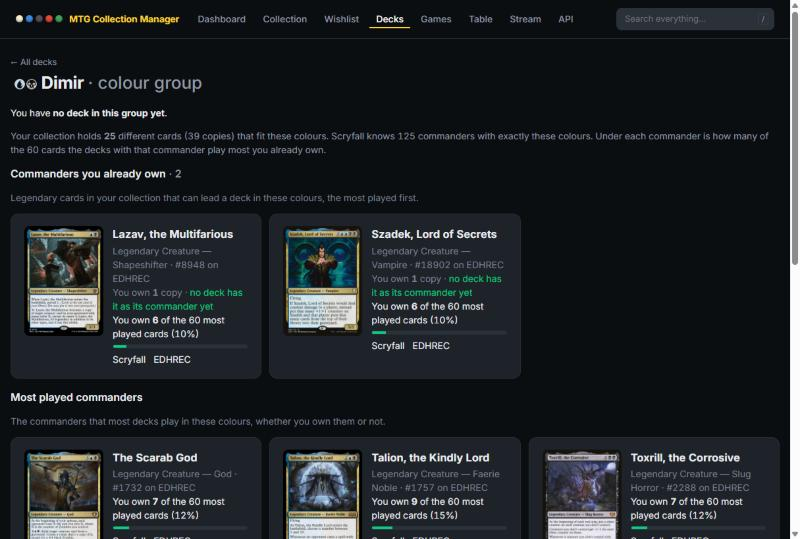
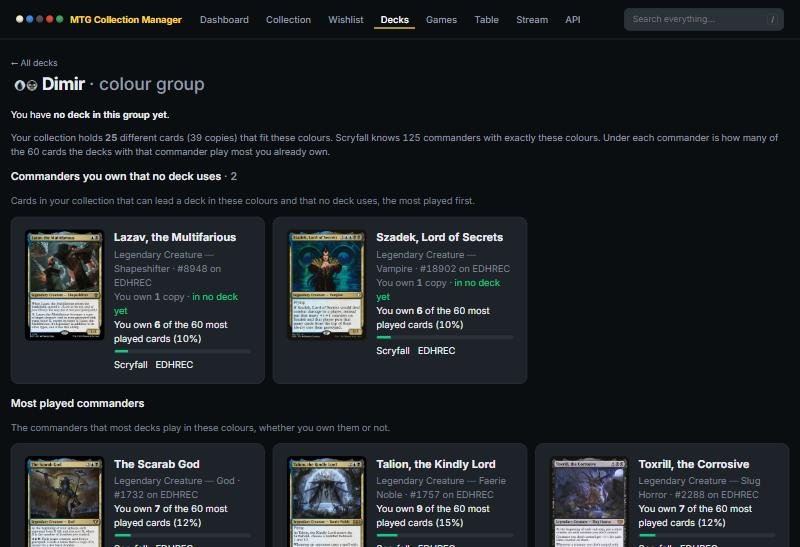
Colour groups: only the commanders you own that no deck uses
- The list of commanders you own on a colour group page leaves out the ones whose copies all sit in decks; with two copies and one in a deck it stays, with "1 not in a deck"
- New screenshot of the page; tests and README

diff --git a/app/templates/colour_group.html b/app/templates/colour_group.html
@@ -10,8 +10,7 @@
     <h3>{{ c.name }}</h3>
     <div class="muted small">{{ c.type_line }}{% if c.rank %} · #{{ c.rank }} on EDHREC{% endif %}</div>
     {% if owned_list %}
-    <div class="small">You own <b>{{ c.copies }}</b> cop{{ 'y' if c.copies == 1 else 'ies' }} ·
-      {% if c.deck %}it is the commander of <a href="/decks/{{ c.deck.id }}">{{ c.deck.name }}</a>{% else %}<span class="up">no deck has it as its commander yet</span>{% endif %}</div>
+    <div class="small">You own <b>{{ c.copies }}</b> cop{{ 'y' if c.copies == 1 else 'ies' }}{% if c.copies > 1 %} · <span class="up">{{ c.free }} not in a deck</span>{% else %} · <span class="up">in no deck yet</span>{% endif %}</div>
     {% elif c.owned %}
     <div class="small"><span class="badge hit">✓ in your collection</span></div>
     {% endif %}
@@ -39,13 +38,13 @@
 
 {% if error %}<p class="down">Could not get the commanders from Scryfall: {{ error }}</p>{% endif %}
 
-<h2>Commanders you already own <span class="muted">· {{ owned | length + owned_more }}</span></h2>
+<h2>Commanders you own that no deck uses <span class="muted">· {{ owned | length + owned_more }}</span></h2>
 {% if owned %}
-<p class="muted small">Legendary cards in your collection that can lead a deck in these colours, the most played first.</p>
+<p class="muted small">Cards in your collection that can lead a deck in these colours and that no deck uses, the most played first.</p>
 <div class="commander-grid">{% for c in owned %}{{ commander_card(c, True) }}{% endfor %}</div>
 {% if owned_more %}<p class="muted small">… and {{ owned_more }} more, less played ones.</p>{% endif %}
 {% elif not error %}
-<p class="muted">You own no card that can be a commander in exactly these colours.</p>
+<p class="muted">You own no free card that can be a commander in exactly these colours (the ones you own are in a deck already).</p>
 {% endif %}
 
 <h2>Most played commanders</h2>

diff --git a/tests/test_colour_groups.py b/tests/test_colour_groups.py
@@ -51,7 +51,7 @@ def test_the_collection_that_fits_a_colour_group(client, session):
     assert colour_groups.slug("UB") == "ub" and colour_groups.slug("") == "c"
 
 
-def test_a_colour_group_page_lists_the_most_played_commanders_and_the_ones_you_own(client, monkeypatch):
+def test_a_colour_group_page_lists_the_most_played_commanders_and_the_free_ones_you_own(client, monkeypatch):
     from app.scryfall import ScryfallClient
     from app.services import colour_groups
 
@@ -65,32 +65,37 @@ def test_a_colour_group_page_lists_the_most_played_commanders_and_the_ones_you_o
                 {"name": "Marwyn, the Nurturer", "type_line": "Legendary Creature — Elf Druid", "edhrec_rank": 1234,
                  "scryfall_uri": "https://scryfall.com/card/x", "image_uris": {"normal": "https://cards.scryfall.io/normal/front/m.jpg"}},
                 {"name": "Marwyn, the Nurturer", "type_line": "again"},
+                {"name": "Sol Ring", "type_line": "Artifact", "edhrec_rank": 5000},
+                {"name": "Lim-Dûl's Vault", "type_line": "Instant", "edhrec_rank": 6000},
                 {"name": "Ghalta", "card_faces": [{"image_uris": {"normal": "https://cards.scryfall.io/normal/front/g.jpg"}}]}]
 
     monkeypatch.setattr(ScryfallClient, "search", search)
-    client.post("/api/collection", json={"name": "Lim-Dûl's Vault"})
-    client.post("/api/collection", json={"name": "Sol Ring", "set_code": "cmm"})
-    client.post("/api/collection", json={"name": "Marwyn, the Nurturer", "quantity": 2})
+    client.post("/api/collection", json={"name": "Lim-Dûl's Vault"})  # free: no deck uses it
+    client.post("/api/collection", json={"name": "Sol Ring", "set_code": "cmm"})  # its only copy sits in a deck
+    client.post("/api/collection", json={"name": "Marwyn, the Nurturer", "quantity": 2})  # one copy sits in a deck
     client.post("/api/decks", json={"name": "Marwyn, the Nurturer - Elves", "decklist": "1 Marwyn, the Nurturer"})
-    client.get("/api/decks")  # works out its commander
+    client.post("/api/decks", json={"name": "Artifacts", "decklist": "1 Sol Ring"})
+    client.get("/api/decks")
     page = client.get("/deck/colours/g")
     assert page.status_code == 200
     assert asked == [("is:commander legal:commander id=g", {"order": "edhrec", "unique": "cards"})]
     text = page.text
-    owned, popular = text.split("Commanders you already own")[1].split("Most played commanders")
-    # what you own: Marwyn (two copies, the commander of the deck Elves), not Ezuri or Ghalta
-    assert "Marwyn, the Nurturer" in owned and "Ezuri" not in owned and "Ghalta" not in owned
-    assert "You own <b>2</b> copies" in owned and "it is the commander of" in owned and "Marwyn, the Nurturer - Elves" in owned
-    # the most played, in EDHREC's order and without duplicates, with a mark on the one you own
-    assert popular.count('class="panel commander-card"') == 3 and popular.index("Ezuri") < popular.index("Marwyn")
+    owned, popular = text.split("Commanders you own that no deck uses")[1].split("Most played commanders")
+    # free to use: the Vault, and Marwyn of which one of two copies is free; Sol Ring is in a deck, Ezuri and Ghalta are not owned
+    assert "Marwyn, the Nurturer" in owned and "Lim-Dûl&#39;s Vault" in owned and "Sol Ring" not in owned
+    assert "Ezuri" not in owned and "Ghalta" not in owned
+    assert "You own <b>2</b> copies" in owned and "1 not in a deck" in owned and "in no deck yet" in owned
+    assert owned.index("Marwyn") < owned.index("Lim-D")  # the most played first
+    # the most played, in EDHREC's order and without duplicates, with a mark on those you own and can use
+    assert popular.count('class="panel commander-card"') == 5 and popular.index("Ezuri") < popular.index("Marwyn")
     assert "#1234 on EDHREC" in popular and "https://cards.scryfall.io/normal/front/g.jpg" in popular
-    assert popular.count("✓ in your collection") == 1
+    assert popular.count("✓ in your collection") == 2
     assert client.get("/deck/colours/g").status_code == 200 and len(asked) == 1  # one search a day per group
     assert client.get("/deck/colours/c").status_code == 200 and asked[-1][0].endswith("id=c")
     assert client.get("/deck/colours/xyz").status_code == 404
 
     found = client.get("/api/commanders/coverage", params={"name": "Marwyn, the Nurturer"}).json()
-    assert (found["owned"], found["of"], found["percent"], found["decks"]) == (2, 3, 67, 1000)
+    assert (found["decks"], found["of"]) == (1000, 3) and found["owned"] >= 1
     assert found["url"] == "https://edhrec.com/commanders/marwyn-the-nurturer"
     assert client.get("/api/commanders/coverage", params={"name": "Nobody"}).status_code == 502
 
@@ -106,7 +111,7 @@ def test_no_owned_commander_is_said_so(client, monkeypatch):
 
     monkeypatch.setattr(ScryfallClient, "search", search)
     text = client.get("/deck/colours/g").text
-    assert "You own no card that can be a commander in exactly these colours" in text and "Ezuri, Renegade Leader" in text
+    assert "You own no free card that can be a commander in exactly these colours" in text and "Ezuri, Renegade Leader" in text
     assert "no deck in this group yet" in text
 
 

diff --git a/app/services/colour_groups.py b/app/services/colour_groups.py
@@ -113,28 +113,20 @@ async def all_commanders(scryfall, colors: str) -> list[dict]:
     return found
 
 
-def owned_commanders(session: Session, commanders: list[dict], decks: list) -> list[dict]:
-    """The commanders of this group that you already have a copy of, the most played first, each with the
-    number of copies and the deck (if any) that has it as its commander."""
-    from app.scryfall import name_key
-    from app.services.collection import collection_rows
+def owned_commanders(session: Session, commanders: list[dict]) -> list[dict]:
+    """The commanders of this group that you have a copy of that no deck uses, the most played first, each
+    with the number of copies and how many of them are free. A commander whose copies all sit in decks is left out."""
     from app.services.decks import _names
+    from app.services.edhrec_compare import _collection_by_name
 
-    copies: dict[str, int] = {}
-    for row in collection_rows(session):
-        key = name_key(row.card.name)
-        copies[key] = copies.get(key, 0) + row.entry.quantity
-    led = {}
-    for deck in decks:
-        for key in _names(deck.commander or ""):
-            led.setdefault(key, deck)
+    have = _collection_by_name(session)  # per name key: [copies owned, copies free, a printing, its price]
     found = []
     for commander in commanders:
-        keys = _names(commander["name"])
-        have = max((copies.get(key, 0) for key in keys), default=0)
-        if have:
-            deck = next((led[key] for key in keys if key in led), None)
-            found.append({**commander, "copies": have, "deck": {"id": deck.id, "name": deck.name} if deck else None})
+        owned = [have[key] for key in _names(commander["name"]) if key in have]
+        copies = max((item[0] for item in owned), default=0)
+        free = max((item[1] for item in owned), default=0)
+        if free > 0:
+            found.append({**commander, "copies": copies, "free": free})
     return found
 
 

diff --git a/app/routers/pages.py b/app/routers/pages.py
@@ -608,13 +608,12 @@ async def colour_group_page(request: Request, slug: str, session: Session = Depe
     key = colour_groups.group_key(slug)
     if key is None:
         raise HTTPException(status_code=404, detail="Unknown colour group")
-    every = [s.deck for s in decks.deck_summaries(session)]
-    mine = [deck for deck in every if colour_groups.normalise(deck.colors) == key]
+    mine = [s.deck for s in decks.deck_summaries(session) if colour_groups.normalise(s.deck.colors) == key]
     try:
         everything, error = await colour_groups.all_commanders(scryfall, key), None
     except ScryfallError as exc:
         everything, error = [], str(exc)
-    owned = colour_groups.owned_commanders(session, everything, every)
+    owned = colour_groups.owned_commanders(session, everything)
     have = {c["name"] for c in owned}
     popular = [{**c, "owned": c["name"] in have} for c in everything[:12]]
     return render(request, "colour_group.html", key=key, name=colour_groups.NAMES[key], decks=mine, commanders=popular,

diff --git a/README.md b/README.md
@@ -98,7 +98,7 @@ Press **▶ Play** on a deck and the stream screen opens with every token that d
 
 ![Colour groups: every deck shows the name of its colours (Azorius, Grixis, Selesnya...), and the groups you have no deck in yet are listed above the decks; all 32 groups with the number of decks in each can be opened, and the list can be filtered and sorted on colour group](docs/decks-colour-groups.jpg)
 
-![A colour group you do not play yet (Dimir): the commanders you already own in exactly those colours, and the most played ones, each with how many of its 60 most played cards you own](docs/colour-group.jpg)
+![A colour group you do not play yet (Dimir): the commanders you own in exactly those colours that no deck uses, and the most played ones, each with how many of its 60 most played cards you own](docs/colour-group.jpg)
 
 ![The saved decks sorted on missing cards: the decks closest to done first](docs/decks-sorted.jpg)
 
@@ -274,7 +274,7 @@ Press **▶ Play** on a deck and the stream screen opens with every token that d
 - Follow an Archidekt deck: a deck saved from an Archidekt link (or given one later) is brought up to date when the deck changes there, automatically every few hours or with "Sync now"; printings you chose and cards you took out are kept
 - The printing from the deck list comes along: an Archidekt deck (or a text list with sets) knows the set and card number of every card. If you own that printing it goes to that deck, also when another deck had taken it only because any copy would do, and missing cards go on the wishlist in that printing
 - Choose the printing: if you own a card in several printings you pick which one is in the deck (say, the foil); otherwise the cheapest free copy is used
-- Colour groups: every deck shows the name of its colours (Selesnya, Jund, Mono-blue, Glint-Eye...), and the deck list shows which of the 32 colour groups you have no deck in yet. A click on a group opens two lists: the commanders you already own in exactly those colours (and which deck, if any, has them as its commander), and the commanders that most decks play, each with how many of their 60 most played cards you already own (EDHREC). The deck list can be filtered and sorted on colour group, and the dashboard has a Colours tab with how your whole collection is spread over the five colours and in which you are weakest
+- Colour groups: every deck shows the name of its colours (Selesnya, Jund, Mono-blue, Glint-Eye...), and the deck list shows which of the 32 colour groups you have no deck in yet. A click on a group opens two lists: the commanders you own in exactly those colours that no deck uses yet, and the commanders that most decks play, each with how many of their 60 most played cards you already own (EDHREC). The deck list can be filtered and sorted on colour group, and the dashboard has a Colours tab with how your whole collection is spread over the five colours and in which you are weakest
 - Deck value: every saved deck shows what the copies in it are worth, and a chart of their value over time
 
 ## Quick start
